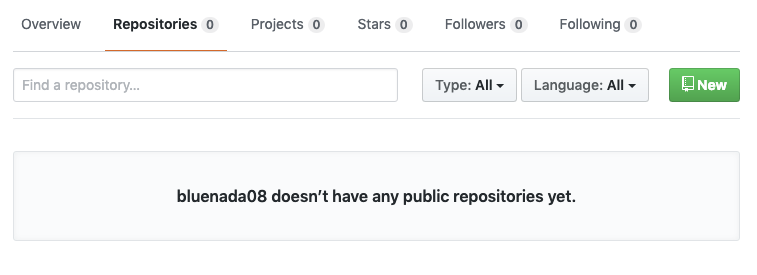
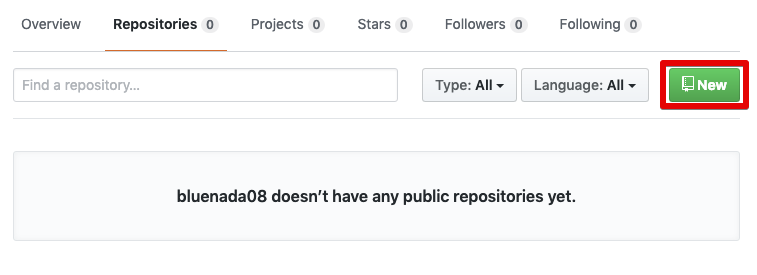
commit capture

Changed region(s): [[0.8507, 0.2036, 1.0, 0.4073]]

diff --git a/_posts/2019-03-11-githubBlogInit.md b/_posts/2019-03-11-githubBlogInit.md
@@ -1,10 +1,8 @@
 ---
 title: GitHub 블로그 만들기를 위한 GitHub 블로그 포스트
-tags:
-- image
 ---
 
-# 블로그란? 
+# 1.블로그란? 
 
 블로그는 웹(web)과 로그(log)의 합성어로 개인의 생각과 경험, 알리고 싶은 견해나 주장, 나아가 전문지식 등을 웹에다 일기(로그)처럼 기록해 다른 사람들도 보고 읽고 댓글을 달수 있게끔 열어 놓은 글모음을 말한다.
 [네이버 지식백과] 블로그 [Blog] (손에 잡히는 IT 시사용어, 2008.02.01)<br>
@@ -24,10 +22,16 @@ tags:
 
 설치형 블로그 중 Git Page를 만드는 방법에 대해 알아보자.<br>
 ~~이 페이지도 Git Page로 만들어졌다.~~
-# GitPage 만들기
+# 2.GitPage 만들기
 1. [깃허브 계정 만들기](https://github.com)
 2.  Repository 생성
-```yaml
-images:
-	path : /images/repository1.jpg
-```
+![image-center]({{ '/images/repository1.png' | absolute_url }}){: .align-center}
+![image-center]({{ '/images/repository2.png' | absolute_url }}){: .align-center}
+<span style="color:red">&#42;Repository이름과 GitPage의 이름은 동일해야 한다.</span>
+![image-center]({{ '/images/repository3.png' | absolute_url }}){: .align-center}
+3. bluenada08.github.io 접속시
+![image-center]({{ '/images/repository4.png' | absolute_url }}){: .align-center}
+
+# 3.JeKyll 테마 적용하기
+Github에 수백개의 [Jekyll 테마](https://github.com/topics/jekyll-theme) 중 하나를 선택하시면 됩니다.<br>
+이 중에 저는 [so-simple-theme](https://github.com/mmistakes/so-simple-theme)로 적용해 보겠습니다.
